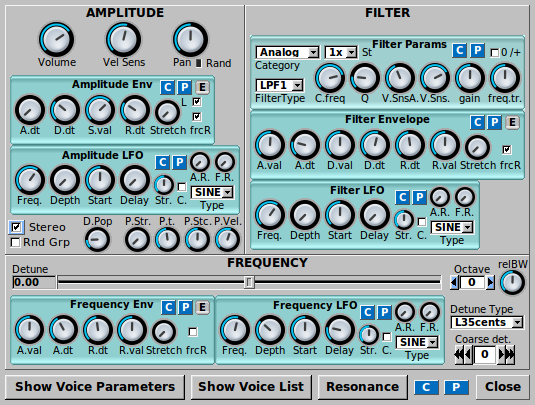
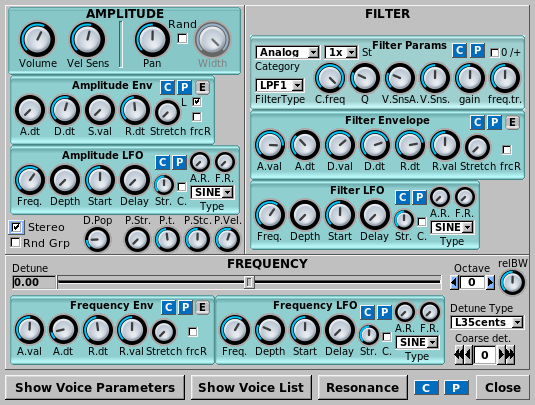
Deploy generated site
Based on source repo commit:
f2b995a1317353e81a68ce2428a3b5d927f4ead0

(dirty source repository!)

diff --git a/downloads.html b/downloads.html
@@ -76,10 +76,10 @@ Here are links to source archives that you can compile on your machine.
   <tbody>
   <tr>
     <td>
-      <a href="https://github.com/Yoshimi/yoshimi/archive/1.7.1.zip">1.7.1</a>
+      <a href="https://github.com/Yoshimi/yoshimi/archive/1.7.2.zip">1.7.2</a>
     </td>
     <td>
-      <a href="https://github.com/Yoshimi/yoshimi/archive/1.7.1.tar.gz">1.7.1</a>
+      <a href="https://github.com/Yoshimi/yoshimi/archive/1.7.2.tar.gz">1.7.2</a>
     </td>
   </tr>
   </tbody>
@@ -99,6 +99,14 @@ Here are links to source archives that you can compile on your machine.
     </tr>
   </thead>
   <tbody>
+  <tr>
+    <td>
+      <a href="https://github.com/Yoshimi/yoshimi/archive/1.7.1.zip">1.7.1</a>
+    </td>
+    <td>
+      <a href="https://github.com/Yoshimi/yoshimi/archive/1.7.1.tar.gz">1.7.1</a>
+    </td>
+  </tr>
   <tr>
     <td>
       <a href="https://github.com/Yoshimi/yoshimi/archive/1.7.0.1.zip">1.7.0.1</a>

diff --git a/history.html b/history.html
@@ -166,6 +166,10 @@
     contributors. Most prominently <span class="person">Iain King-Speir</span> who both cleaned
     up a lot of code and provided fixes and improvements to the legato implementation.
   </p>
+  <p>
+    August 17th of 2020 saw the release of 1.7.2. The most important change was the addition of width and center
+    controls for random panning, allowing greater control of the panning range. Additionally, the FM modulation algorithm was improved (by <span class="person">Kristian Amlie</span>, who also provided some additional fixes and optimizations), instrument file compatibility issues were addressed, numerous gui bugs were fixed and some new dynamic tooltips were added.
+  </p>
   <p>And the story continues...</p>
 
 </div>

diff --git a/screenshots.html b/screenshots.html
@@ -68,6 +68,13 @@
   </figcaption>
   </figure>
   <figure>
+  <figure>
+  <img alt="pad-synth envelope controls" src="img/ui/PadSynthEnvelopes.png" />
+  <figcaption>
+    Envelope controls for the PadSynth engine
+  </figcaption>
+  </figure>
+  <figure>
   <img alt="sub-synth controls" src="img/ui/SubSynth.png" />
   <figcaption>
     Controls for the SubSynth engine
